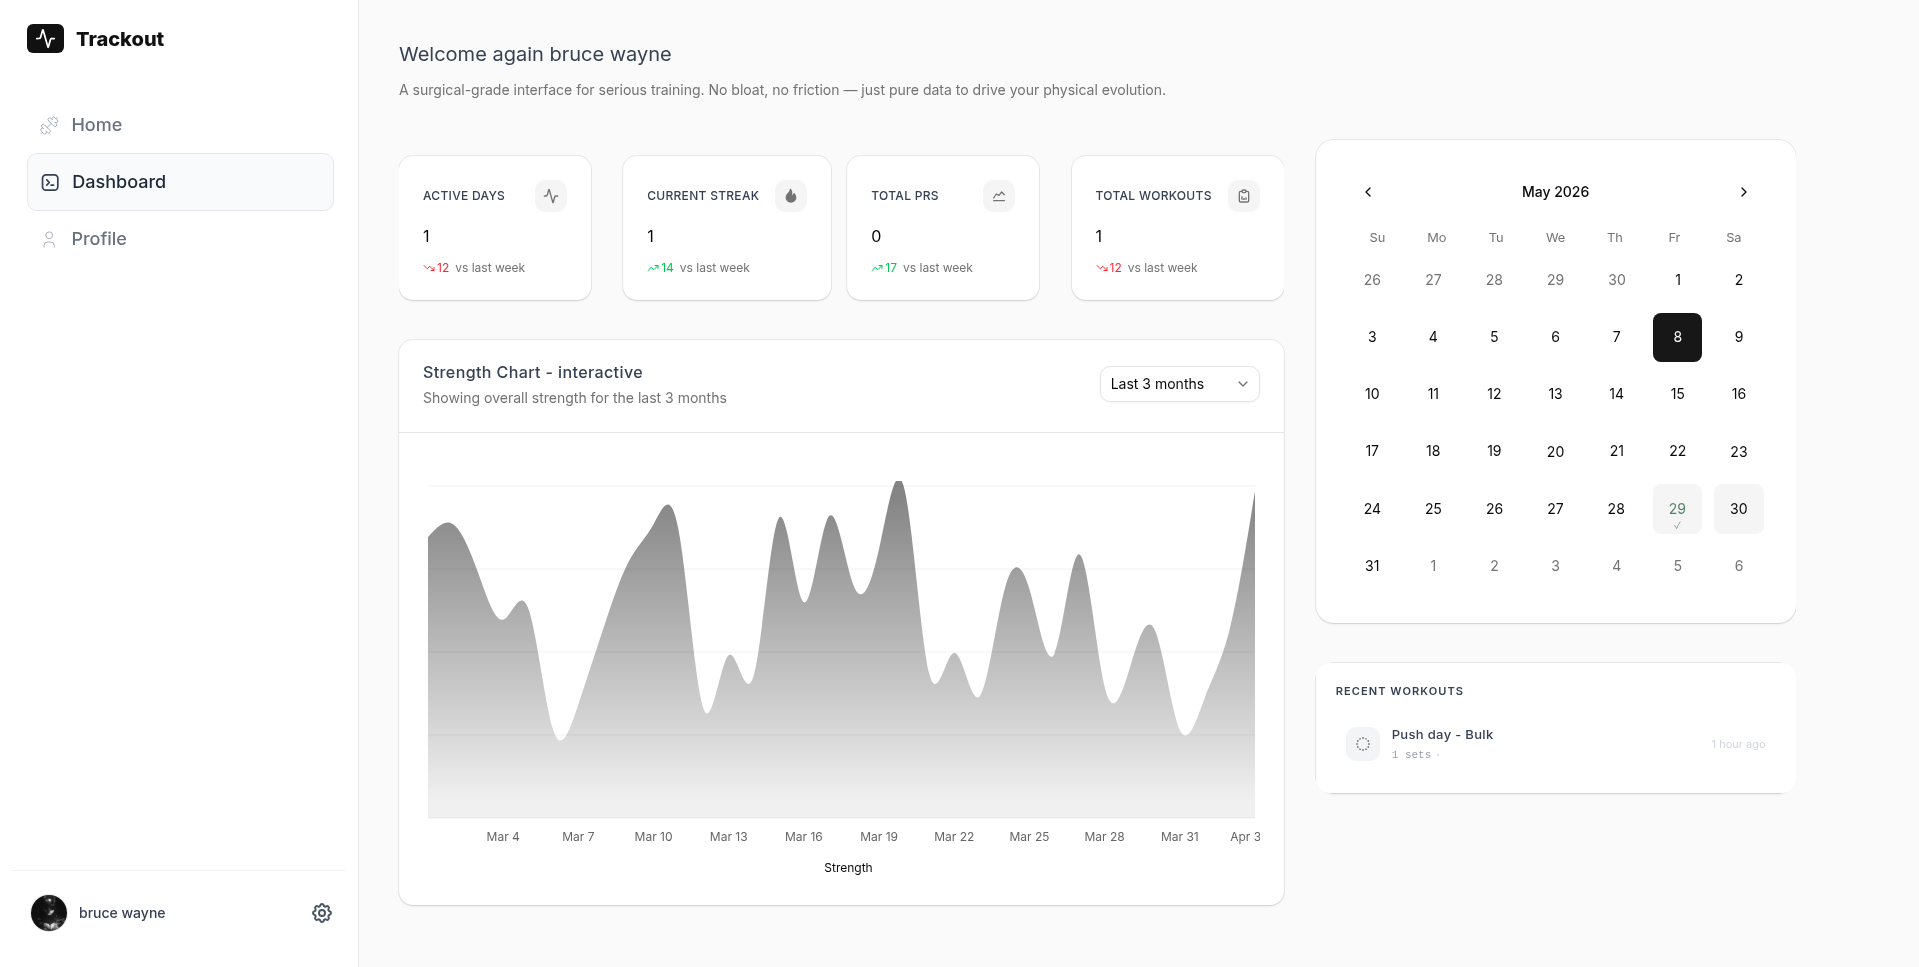
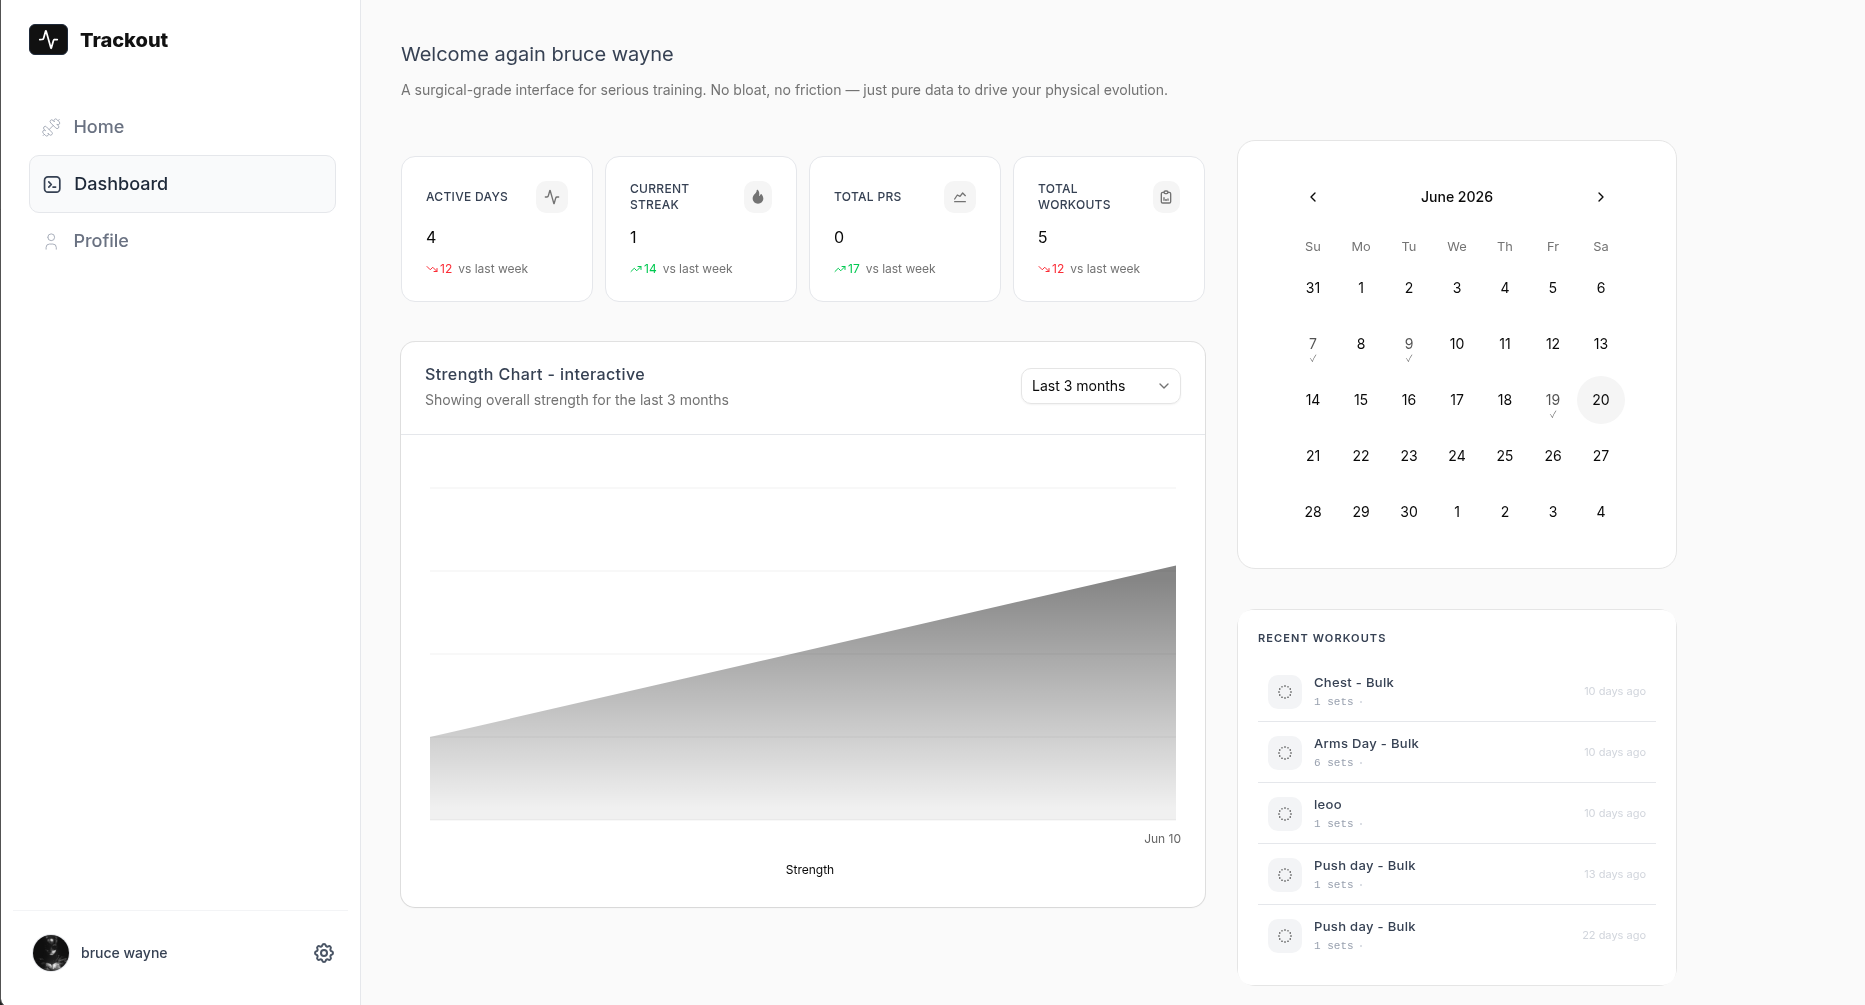
added new screenshots for light and dark mode

diff --git a/client/src/components/layout/SideBar.tsx b/client/src/components/layout/SideBar.tsx
@@ -126,7 +126,7 @@ const Popup = ({ setIsOpen }: { setIsOpen: Dispatch<SetStateAction<boolean>> }) 
 
     return (
         <motion.ul
-            className="menu dropdown-content absolute top-10 right-1 md:bottom-10 z-10 mt-0 w-44 rounded-2xl border border-neutral-200 bg-white p-2 shadow-lg dark:border-gray-800 dark:bg-neutral-900 dark:text-line-color dark:shadow-none"
+            className="menu dropdown-content absolute top-10 right-1 md:-top-35 z-10 mt-0 w-44 rounded-2xl border border-neutral-200 bg-white p-2 shadow-lg dark:border-gray-800 dark:bg-neutral-900 dark:text-line-color dark:shadow-none"
             initial={{
                 opacity: 0,
             }}

diff --git a/client/src/pages/LandingPage.tsx b/client/src/pages/LandingPage.tsx
@@ -77,10 +77,11 @@ const Layout = ({ children }: { children: React.ReactNode }) => {
 }
 
 const DashboardMockup = () => {
+    const theme = useThemeStore((state) => state.theme)
     return (
         <div className="my-20 ml-15 flex h-150 w-300 cursor-default items-center justify-center overflow-hidden rounded-lg p-5 select-none lg:ml-0 lg:w-auto">
             <img
-                src="/mockup.png"
+                src={theme === "light"? "./mockup.png":"/mockup-dark.png"}
                 className="shadow-aesthetic h-full w-full cursor-default rounded-lg select-none"
             />
         </div>
